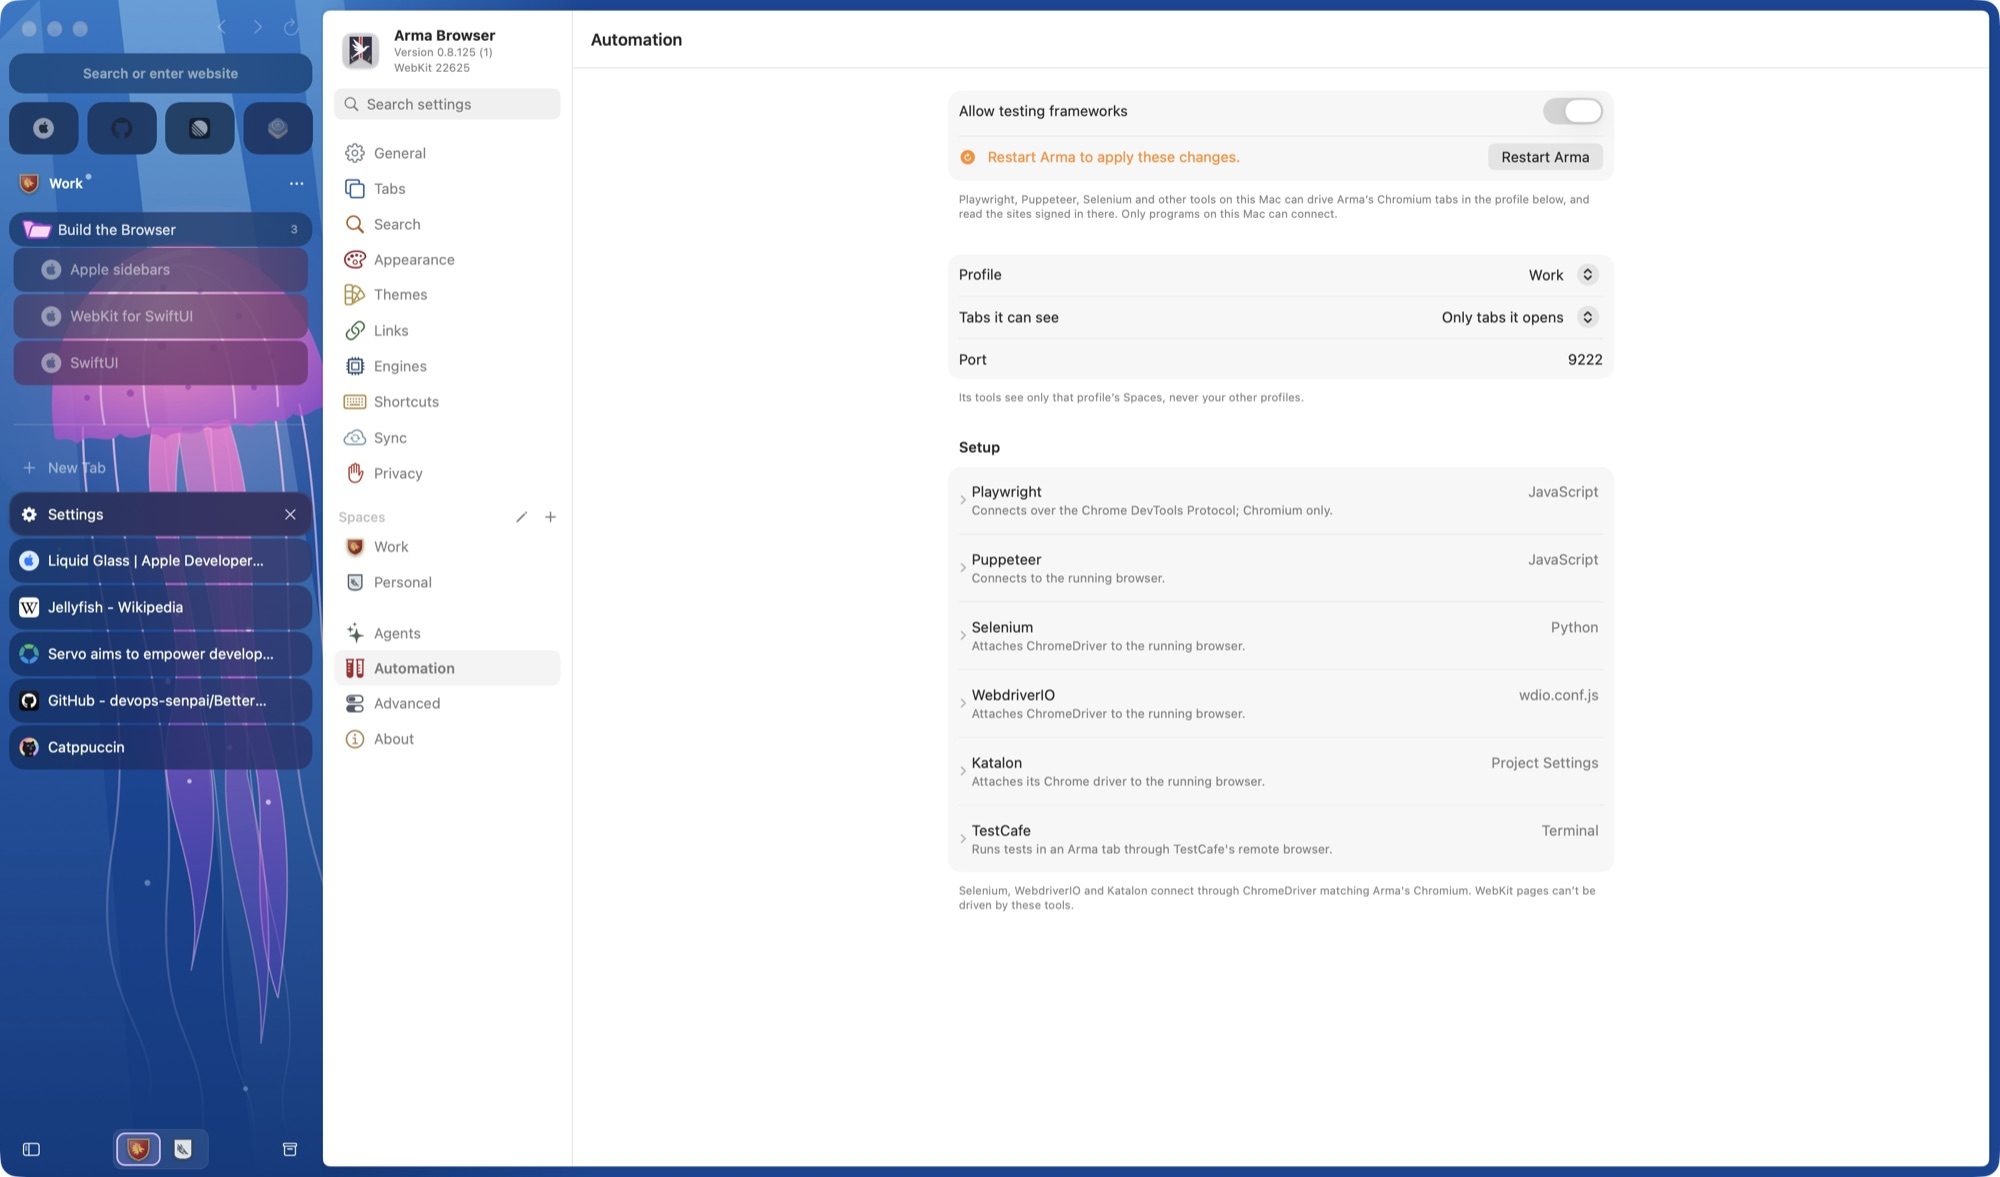
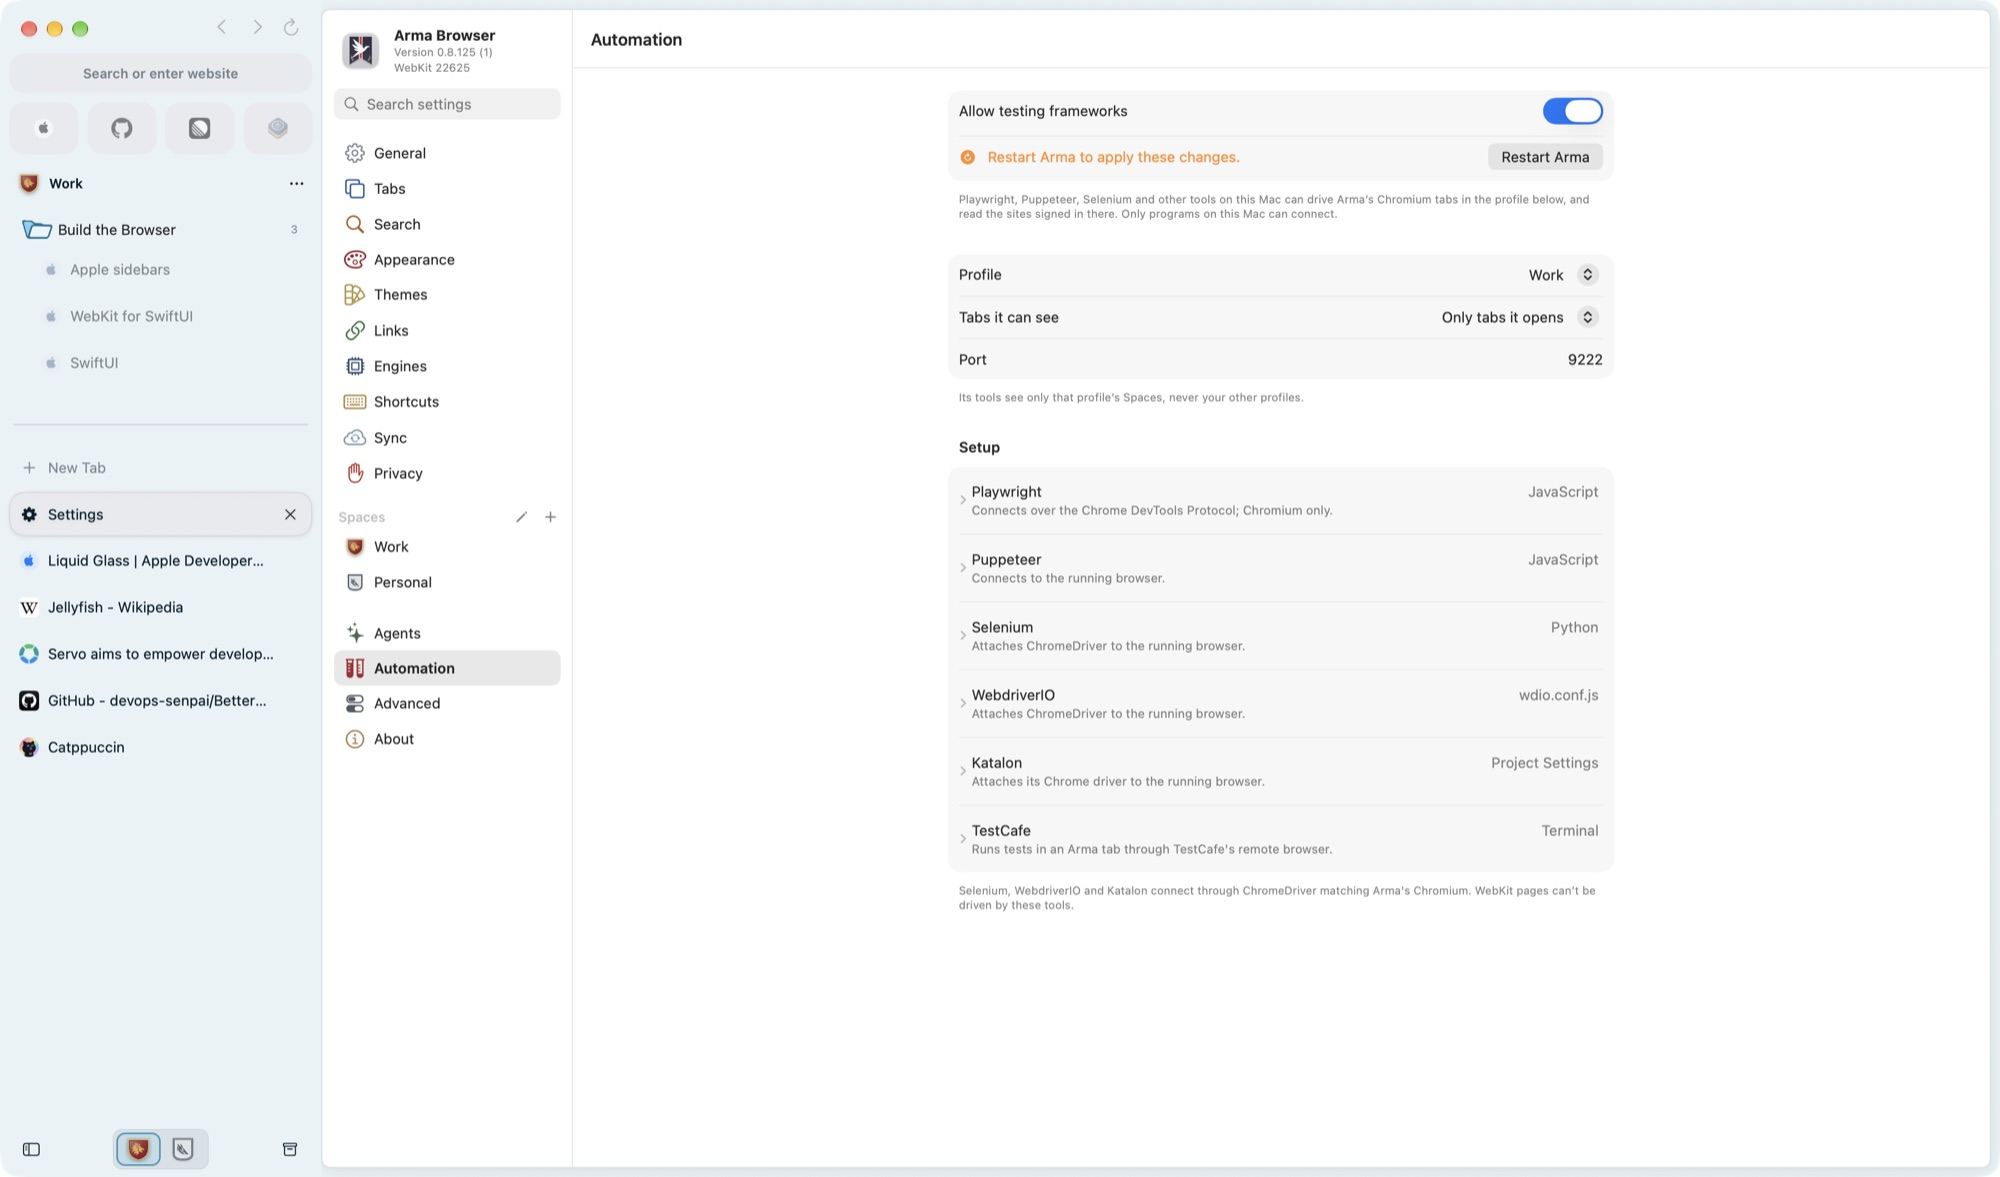
docs(readme): show the settings in Arc Sky, and JellyFish as an example of a picture
The owner wants the README not to lean on the JellyFish picture, which
is there to show that a picture can sit behind the tabs. The Themes and
Automation settings screenshots are retaken in Arc Sky, the theme
gallery leads with Arc Sky and Catppuccin Macchiato and names JellyFish
as an example of a picture of your own, and the arma theme example picks
Arc Sky.

Changed region(s): [[0.0, 0.0, 1.0, 1.0], [0.775, 0.0612, 0.806, 0.1223]]

diff --git a/README.md b/README.md
@@ -21,19 +21,19 @@ user guides live in this repository under `HelpCenter/docs/`.
 ### Themes
 
 Arma ships with themes for every kind of person: **Arc Sky** for anyone
-coming from Arc, **Catppuccin** Latte / Mocha, Macchiato, Mocha and Frappé for
-coders, and **JellyFish**, with its own underwater picture behind the tabs,
-for anyone who wants a browser that looks like theirs. Setup offers them
+coming from Arc, and **Catppuccin** Latte / Mocha, Macchiato, Mocha and
+Frappé for coders. Any theme can also put a picture of your own behind the
+tabs; **JellyFish** ships as an example of one. Setup offers them
 beside the **Heraldic** and **Modern** looks, and Settings › Themes edits every
 color, the dark look and the background picture, with a live preview of the
 window and its command palette.
 
 | | |
 |---|---|
-| ![JellyFish](Brand/Readme/theme-jellyfish.jpg) | ![Arc Sky](Brand/Readme/theme-arc-sky.jpg) |
-| **JellyFish** | **Arc Sky** |
-| ![Catppuccin Latte / Mocha](Brand/Readme/theme-catppuccin-latte.jpg) | ![Catppuccin Macchiato](Brand/Readme/theme-catppuccin-macchiato.jpg) |
-| **Catppuccin Latte / Mocha** | **Catppuccin Macchiato** |
+| ![Arc Sky](Brand/Readme/theme-arc-sky.jpg) | ![Catppuccin Macchiato](Brand/Readme/theme-catppuccin-macchiato.jpg) |
+| **Arc Sky** | **Catppuccin Macchiato** |
+| ![Catppuccin Latte / Mocha](Brand/Readme/theme-catppuccin-latte.jpg) | ![JellyFish, with a picture behind the tabs](Brand/Readme/theme-jellyfish.jpg) |
+| **Catppuccin Latte / Mocha** | **A picture of your own** (JellyFish) |
 
 ![Settings › Themes: the theme list, a live preview of the window and its command palette, and the sidebar's colors](Brand/Readme/settings-themes.jpg)
 
@@ -93,7 +93,7 @@ arma tab list --space Work                   # each tab's <tab-id>, placement, e
 arma split create <tab-id> <tab-id> <tab-id> # three tabs in one Split View
 arma split arrange <tab-id> grid             # two-across, three-across, grid …
 arma theme list                              # saved themes; * the shown Space's
-arma theme use JellyFish --space Personal
+arma theme use "Arc Sky" --space Personal
 arma theme edit "Catppuccin Macchiato" --folder-color "#a581ff"
 arma crest set --shape guidon --band pale --emblem sparrow --border laurel
 arma window tile left
@@ -158,7 +158,7 @@ change; the commit of the same name has the detail.
 
 - **Extended theming.** Each Space's Appearance page goes further than upstream: pick the colors of folders and their backs, the sidebar text color, and the command palette's tint, opacity and text color, with a separate look for dark windows. Export a Space's theme as a JSON file and load one back from the page or the Space's menu; four Catppuccin themes ship as examples.
 - **Theme CLI tools.** `arma theme` lists, makes, edits, imports, shows and picks saved themes, light and dark looks alike, and `arma crest` shapes and colors a Space's own crest or icon. Changes show in the running app right away, so a theme can be tuned without reopening Settings.
-- **Themes in setup.** Arma ships with Arc Sky, Catppuccin Latte / Mocha, Macchiato, Mocha and Frappé, and JellyFish, whose underwater picture is Arma's own; setup's Pick your look page offers them beside Heraldic and Modern, and the theme picked dresses every Space it makes.
+- **Themes in setup.** Arma ships with Arc Sky, Catppuccin Latte / Mocha, Macchiato, Mocha and Frappé, and JellyFish, an example of a picture behind the tabs whose drawing is Arma's own; setup's Pick your look page offers them beside Heraldic and Modern, and the theme picked dresses every Space it makes.
 - **Arma's own arms.** The Crest Studio offers the logo's Guidon shape and its bird and the Crane as emblems, first in their galleries, and new Spaces start with the guidon, a pale and the logo's bird in their house colors.
 - **Command-line control.** `arma` manages the running browser from the terminal: Spaces, tabs (open in a chosen engine, move, pin, save, rename), windows (move, resize, tile), folders, Split View, any menu command, extensions, history, downloads, settings (get, set, export, import) and site rules, with `--json` for scripts. `arma page` reads and drives a page (text, snapshot, screenshot, click, type, JavaScript) once Settings › Agents › Command-line page control is on.
 - **Automation for testing frameworks.** Settings › Automation (or `arma automation`) lets Playwright, Puppeteer, Selenium, WebdriverIO, Katalon and TestCafe drive Arma's Chromium tabs over a local DevTools port, limited to one profile or an empty Ephemeral one, and to the tabs they open or existing tabs too, with copyable setup for each tool.
